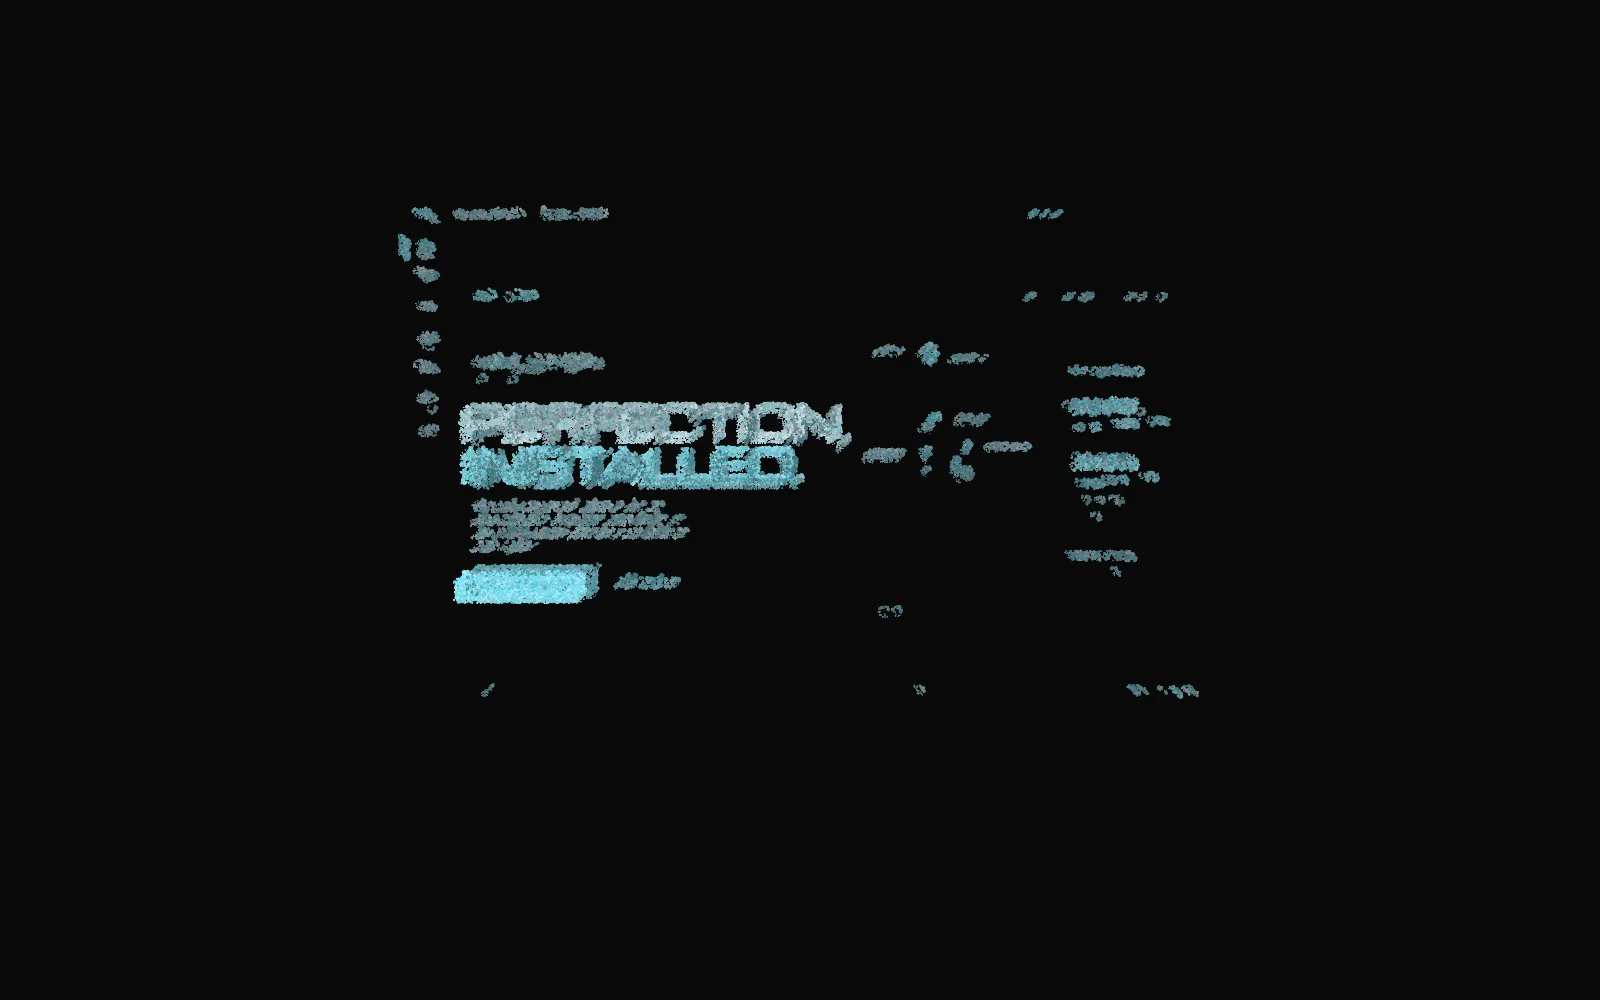
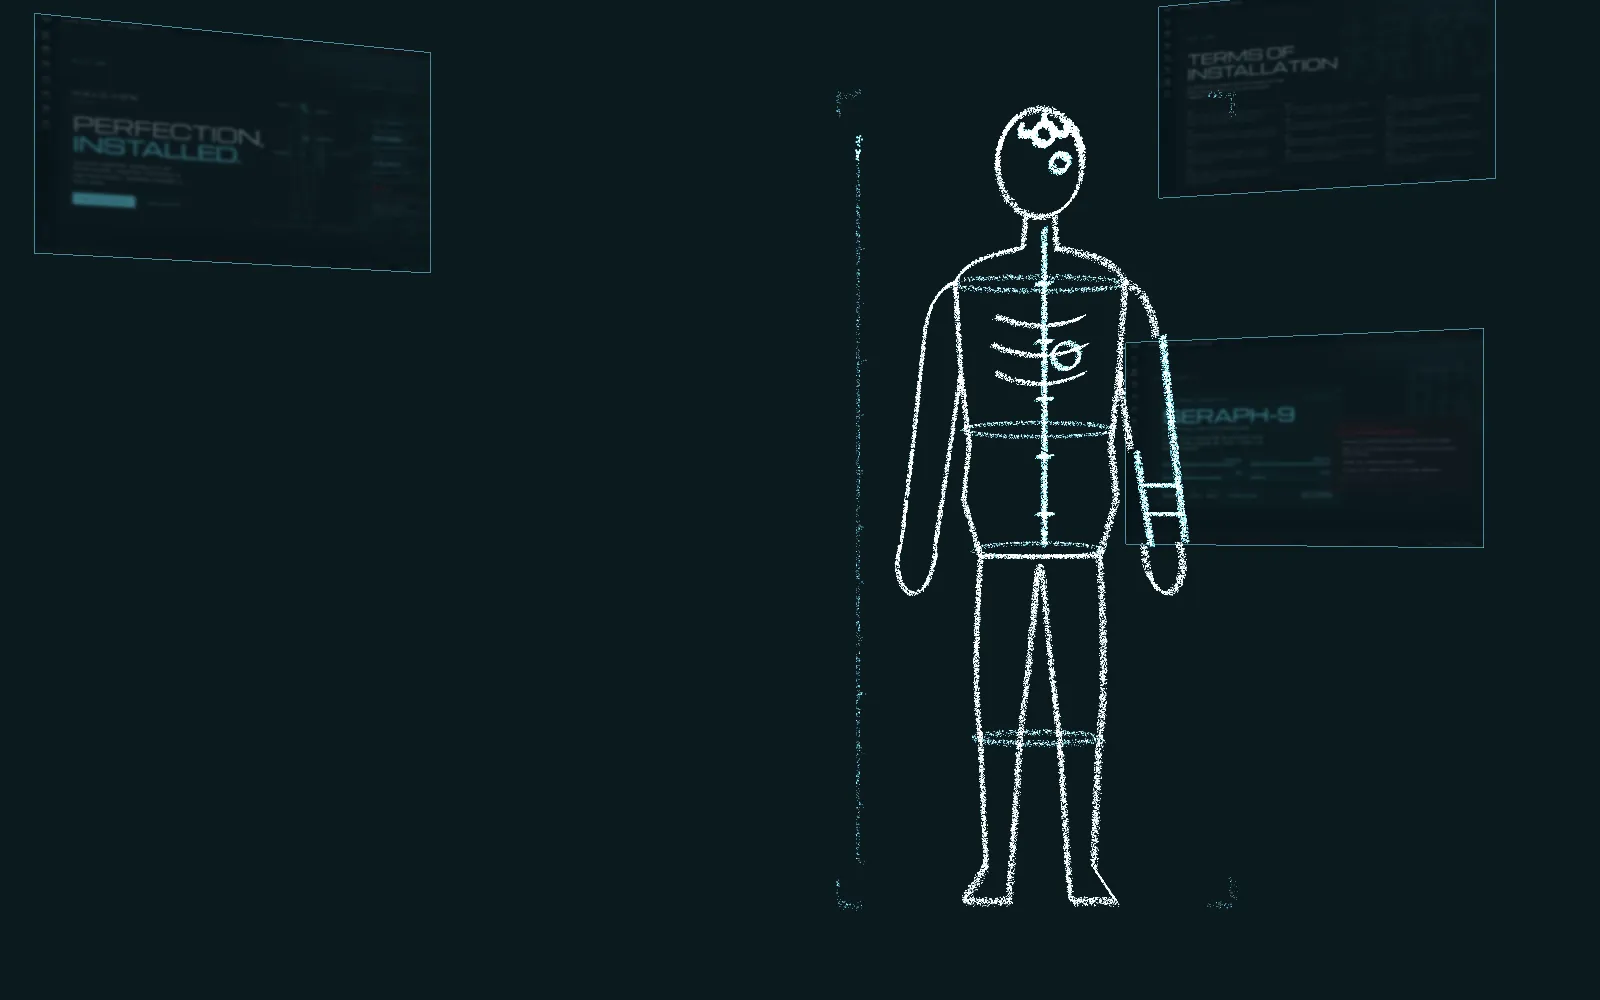
chore: regenerate posters for the HALCYON world, drop its unused cover, update CLAUDE.md

diff --git a/CLAUDE.md b/CLAUDE.md
@@ -19,6 +19,7 @@ Oscar's public portfolio of projects built with Claude Code. It goes live at htt
 | `npm test` | Unit tests (Vitest) |
 | `npm run test:e2e` | Browser tests (Playwright with Microsoft Edge; use `PW_CHANNEL=chromium` after `npx playwright install chromium` for Playwright's own browser) |
 | `npm run media` | Rebuilds the HALCYON live copy, covers, screenshots and WebP images from the raw sources (needs `sources.local.json`) |
+| `npm run video:halcyon` | Re-records the HALCYON screen video (H.264 MP4 + WebP poster) from the live copy in `public/halcyon/`. The first time on a machine, run `npx playwright install ffmpeg` (Playwright's recorder needs its own ffmpeg build). |
 | `npm run to-webp -- <input> <output.webp>` | Converts one image to a 1800 px WebP plus a `-900.webp` copy, with metadata stripped |
 | `npm run posters` | Builds the site and re-renders the still poster for every scene into `public/posters/` |
 | `npm run build` | Production build into `dist/` |
@@ -63,4 +64,4 @@ If `create` throws, or `update` throws, that chapter falls back to its poster an
 
 ## Status
 
-Milestone 1 (shell) is in place. Every project chapter uses the "picture" world for now; the hero uses "index" and the next slot uses "dormant". Custom worlds come in later milestones: HALCYON (2), DEAD TIRED (3), Pico Light Show (4) and ASCII Mirror (5). Launch is milestone 6. Plans live in `docs/superpowers/plans/`.
+Milestones 1 (shell) and 2 (HALCYON world) are in place. HALCYON uses its own "halcyon" world (particles traced from its body-wireframe.svg, with drifting glass panels); the other project chapters still use the "picture" world; the hero uses "index" and the next slot uses "dormant". Custom worlds come in later milestones: DEAD TIRED (3), Pico Light Show (4) and ASCII Mirror (5). Launch is milestone 6. Plans live in `docs/superpowers/plans/`.
